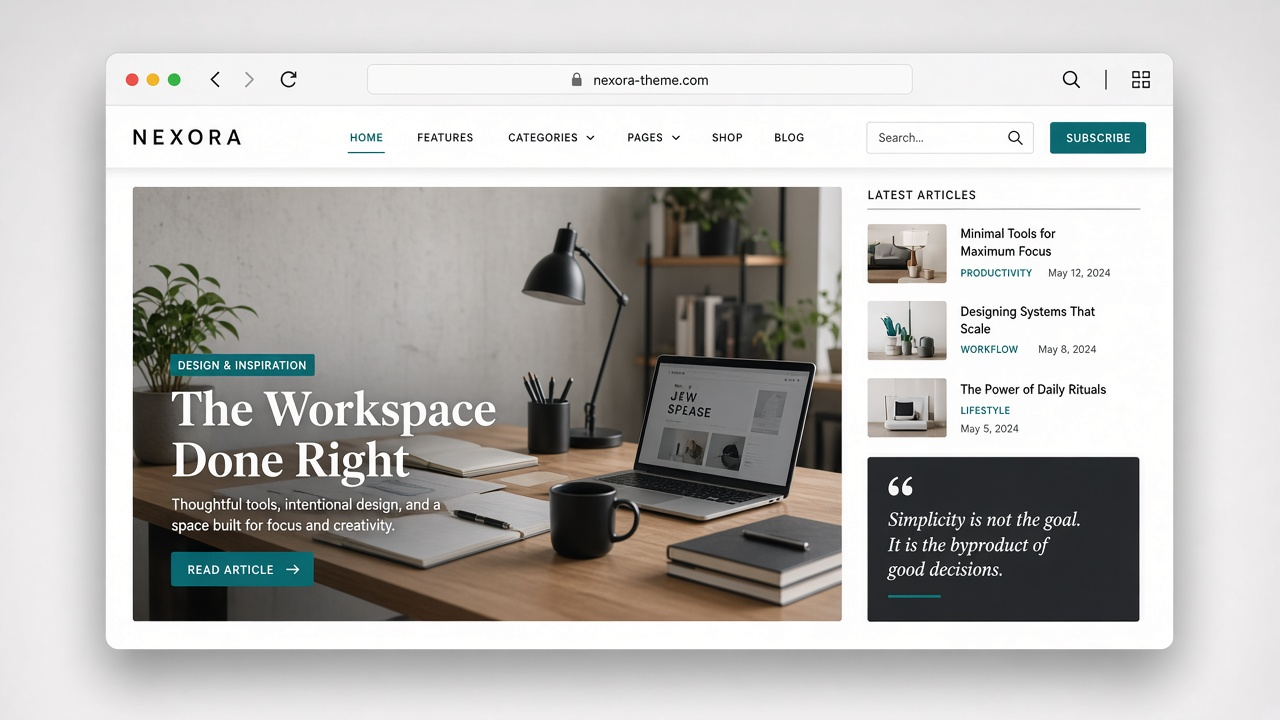
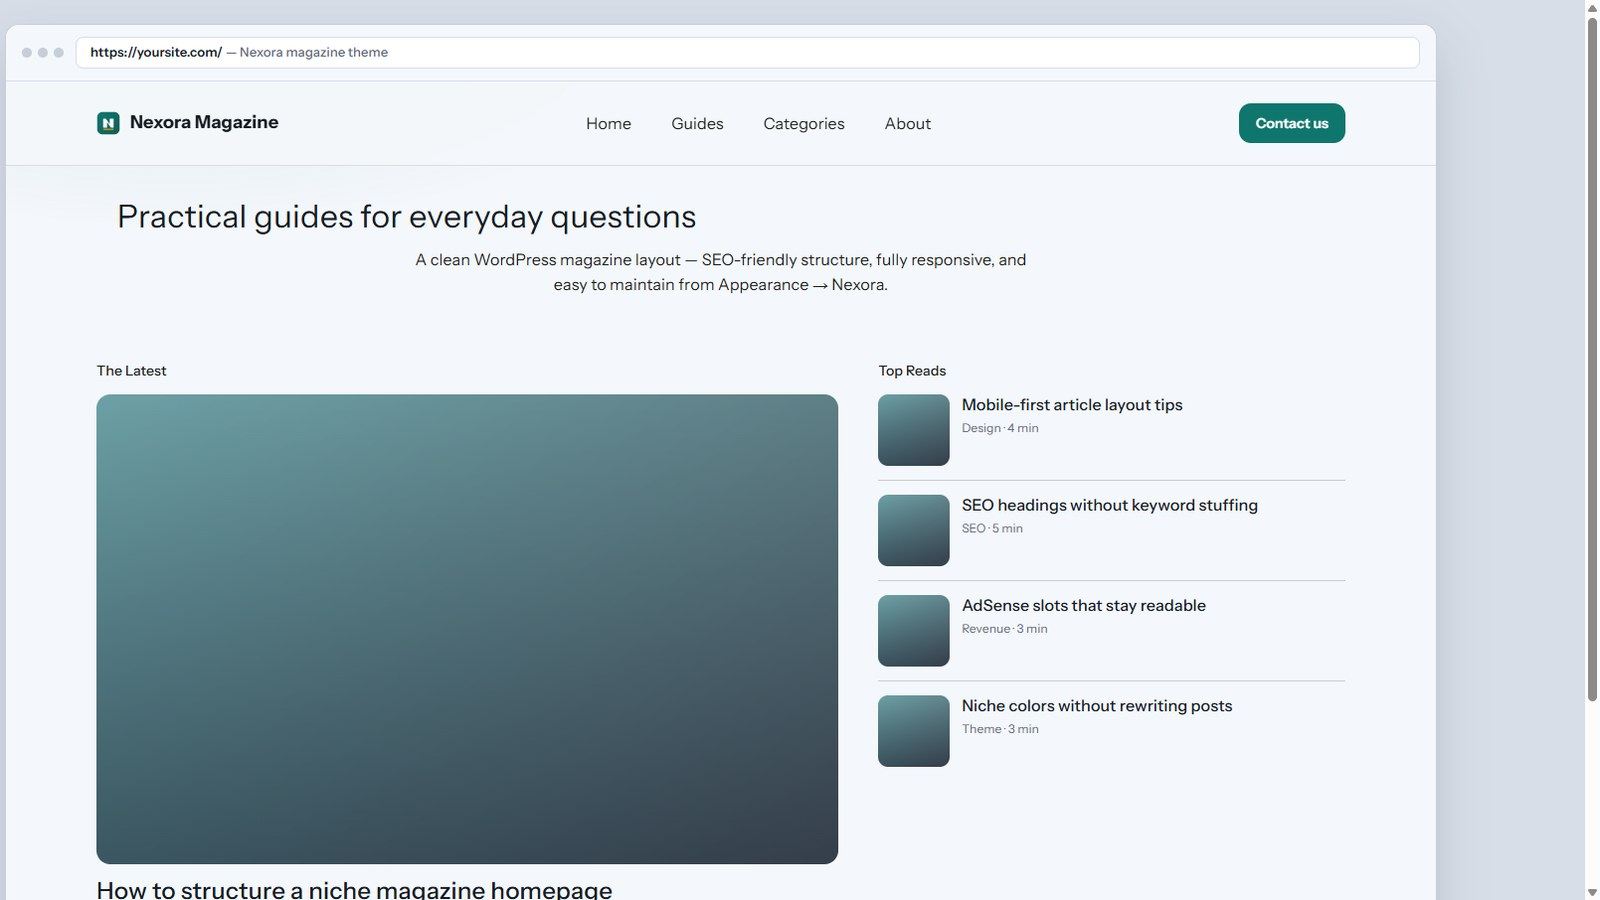
Replace hero mock with accurate Nexora magazine UI preview.

diff --git a/index.html b/index.html
@@ -132,7 +132,7 @@
           src="assets/hero-magazine.jpg"
           width="1600"
           height="900"
-          alt="Nexora free WordPress magazine theme homepage — SEO-friendly and responsive layout"
+          alt="Nexora WordPress magazine theme homepage preview with Instrument Sans, teal Contact button, Latest and Top Reads"
           fetchpriority="high"
         >
       </div>
